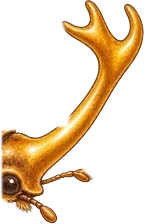
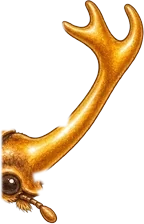
v0.14.0: 「ゆび」をなくしてタップでさわる、夜の画面（屋外は暗く、室内は照明と夜の窓）、ミアレカブトの触角

Changed region(s): [[0.1944, 0.7188, 0.6389, 0.875]]

diff --git a/index.html b/index.html
@@ -626,6 +626,7 @@ html.land #arena .ctl{grid-column:2;margin-top:0}
 #placeBg{display:none}
 html.land body.noteUI #placeBg{display:block;position:fixed;inset:0;z-index:-1;background-position:center bottom;background-size:cover;background-repeat:no-repeat;background-color:#d9c4a4}
 #placeBg i{position:absolute;inset:0;display:block}
+#nightRoom{position:absolute;inset:0;width:100%;height:100%;display:block}
 .tabArt{display:none}
 html.land body.noteUI{--note-ink:#4a3320;font-family:"Klee One","Hiragino Maru Gothic ProN","Hiragino Sans",sans-serif;background:#d9c4a4}
 html.land body.obsMode{--toolh:clamp(50px,calc(var(--H) * .085),84px);--nf:clamp(14px,calc(var(--H) * .023),22px);--sih:min(calc((var(--H) - var(--st) - var(--sb) - var(--toolh) - 42px) * .73),calc((var(--W) - 80px - var(--rtw) - var(--sl) - var(--sr)) * .6 / 1.78))}
@@ -689,6 +690,11 @@ html.land body.noteUI:not(.obsMode) .album .ph,html.land body.noteUI:not(.obsMod
 /* 絵が見えるよう、画面ごとにカードの置き場所をかえる。はばは --H ではなく #view のわりあい */
 html.land body.noteUI[data-tab=out] #view{padding-top:calc(var(--H) * .3)}
 html.land body.noteUI[data-tab=spot] #view{padding-top:calc(var(--H) * .22)}
+/* 夜：絵を暗く。カードは少し濃くして、字を読みやすく */
+html.land body.noteUI[data-slot=yoru] .spotPic,html.land body.noteUI[data-night=sky] .caseBox .caseArt{filter:brightness(.62) saturate(.85)}
+html.land body.noteUI[data-night=room] .caseBox .caseArt{filter:brightness(.9) sepia(.15) drop-shadow(0 3px 3px #3a241255)}
+html.land body.noteUI[data-night=sky]:not(.obsMode) #view{--win:#fffaebd6}
+html.land body.noteUI[data-night=sky]:not(.obsMode) #view>h2,html.land body.noteUI[data-night=sky]:not(.obsMode) #view>h3,html.land body.noteUI[data-night=sky]:not(.obsMode) #view>p:not(.win),html.land body.noteUI[data-night=sky]:not(.obsMode) #view>.row>h2{background:#fffaebd6}
 html.land body.noteUI:not(.obsMode) .win,html.land body.noteUI:not(.obsMode) .spot,html.land body.noteUI:not(.obsMode) .rival,html.land body.noteUI:not(.obsMode) .case,html.land body.noteUI:not(.obsMode) .opt .btn,html.land body.noteUI:not(.obsMode) #view>p:not(.win){-webkit-backdrop-filter:blur(2px);backdrop-filter:blur(2px)}
 html.land body.noteUI:not(.obsMode) .opt .btn .v{white-space:nowrap;margin-left:.6em;flex:none}
 html.land body.noteUI:not(.obsMode) .opt .btn{gap:.4em}
@@ -739,7 +745,7 @@ html.land.tall body.noteUI #rtabs .rt{font-size:15px}
   <div id="view"></div><!-- 中央画面（#view） -->
 </div>
 <!-- 左メニュー（#tabs）：そと・すもう・おみせ・ずかん・その他（たて画面のPCでは下にならび、おうちもここ） -->
-<div id="placeBg"><i></i></div>
+<div id="placeBg"><i></i><svg id="nightRoom" viewBox="0 0 1280 853" preserveAspectRatio="xMidYMax slice" aria-hidden="true"></svg></div>
 <div id="tabs" hidden>
   <button type="button" data-t="home"><span class="ic">🧺</span>虫かご</button>
   <button type="button" data-t="out"><span class="ic">🌳</span><img class="tabArt" src="img/ui/ic_out.webp" alt="" draggable="false">そと</button>
@@ -771,9 +777,14 @@ const SAVE_KEY = KEY_PRE + 'munakata-mushisodate-v1';
 const QS = new URLSearchParams(location.search);
 
 /* バージョンとこうしん情報：公開するたびに番号を上げる（ふだんは +0.0.1、大きなこうしんは +0.1） */
-const GAME_VER = '0.13.0';
-const BUILD = '20261106-0052';   // 公開するたびに tools/bump.sh が日時を書きこむ（version.json と同じ値）
+const GAME_VER = '0.14.0';
+const BUILD = '20261106-0148';   // 公開するたびに tools/bump.sh が日時を書きこむ（version.json と同じ値）
 const CHANGELOG = [
+  {v:'0.14.0', date:'2026-11-06', items:[
+    '「ゆび」の道具がなくなった。虫を直接タップすると、そっとさわれるよ。さわるのは、ちょっとだけね',
+    'ほんとうの時間が夜になると、画面も夜になる。外は暗くなって、へややおみせは明かりがついて、窓の外に星が見えるよ',
+    'ミアレカブトの触角が動くようになった',
+  ]},
   {v:'0.13.0', date:'2026-11-06', items:[
     '成虫がぜんぶ絵になって、動くようになった！ チョウははねをゆっくり開いてとじて、クワガタはアゴを動かして歩くよ',
     'そとの場所にそれぞれ絵がついた。着いたら、その場所のけしきが見える',
@@ -1568,7 +1579,7 @@ const BUG_IMG = {
   abura: {adult:'abura_adult_genki'},
 };
 /* 1枚絵を切り分けて関節で動かす虫（tools/art_cut.py の出力）。座標は 512px の絵のまま。虫を足すときは tools/art_cut.py の RIGS に足して、出力をここへ */
-const ART_RIG = {"kabuto_larva":{"drop":0,"hop":0,"parts":{"tail":{"b":[276,45,215,286],"pv":[295,135],"kind":"tail"},"front":{"b":[26,267,249,158],"pv":[105,295],"kind":"front"},"leg1":{"b":[94,377,48,85],"pv":[122,390],"kind":"leg","ph":0,"parent":"front"},"leg2":{"b":[153,397,45,75],"pv":[175,408],"kind":"leg","ph":2,"parent":"front"},"leg3":{"b":[201,401,40,70],"pv":[220,412],"kind":"leg","ph":4,"parent":"front"},"head":{"b":[231,315,107,110],"pv":[250,372],"kind":"head","parent":"front"},"chew":{"b":[285,387,61,50],"pv":[298,405],"kind":"chew","parent":"head"}}},"kabuto_pupa":{"drop":0,"hop":0,"parts":{"tail":{"b":[20,162,138,222],"pv":[135,270],"kind":"tail"}}},"kokuwa_adult":{"drop":0,"hop":0,"parts":{"legF3":{"b":[20,280,61,45],"pv":[68,292],"kind":"leg","ph":3},"legF1":{"b":[317,293,64,46],"pv":[328,302],"kind":"leg","ph":3},"leg3":{"b":[42,287,136,61],"pv":[160,304],"kind":"leg","ph":0},"leg2":{"b":[159,287,109,63],"pv":[250,304],"kind":"leg","ph":3},"leg1":{"b":[267,285,105,66],"pv":[285,304],"kind":"leg","ph":0},"leg0":{"b":[335,281,155,65],"pv":[352,298],"kind":"leg","ph":3},"ant":{"b":[390,262,98,40],"pv":[400,272],"kind":"ant"},"antF":{"b":[408,161,83,54],"pv":[416,210],"kind":"ant","ph":1.3},"mandU":{"b":[400,207,79,46],"pv":[412,228],"kind":"mand","sgn":-1},"mandL":{"b":[400,247,79,36],"pv":[412,264],"kind":"mand","sgn":1}}},"suzumushi_adult":{"drop":0,"hop":0,"parts":{"leg3":{"b":[232,293,96,99],"pv":[312,308],"kind":"leg","ph":0},"leg2":{"b":[335,297,61,87],"pv":[355,308],"kind":"leg","ph":3},"leg1":{"b":[380,285,76,74],"pv":[392,296],"kind":"leg","ph":0},"ant":{"b":[62,46,381,222],"pv":[428,264],"kind":"ant","amp":0.45},"antF":{"b":[160,249,331,216],"pv":[430,266],"kind":"ant","ph":1.3,"amp":0.45}}},"shoryo_adult":{"drop":0,"hop":1,"parts":{"legF":{"b":[203,297,41,47],"pv":[232,302],"kind":"leg","ph":3},"leg3":{"b":[235,285,63,74],"pv":[285,293],"kind":"leg","ph":0},"leg2":{"b":[300,273,41,88],"pv":[325,283],"kind":"leg","ph":3},"leg1":{"b":[350,257,58,102],"pv":[368,272],"kind":"leg","ph":0},"ant":{"b":[443,153,48,38],"pv":[447,186],"kind":"ant"}}},"tonosama_adult":{"drop":0,"hop":1,"parts":{"leg4":{"b":[202,267,89,96],"pv":[275,280],"kind":"leg","ph":0},"leg3":{"b":[283,277,58,89],"pv":[325,288],"kind":"leg","ph":3},"legF":{"b":[400,278,59,68],"pv":[412,285],"kind":"leg","ph":3},"leg1":{"b":[360,265,67,97],"pv":[378,277],"kind":"leg","ph":0},"ant":{"b":[428,168,63,68],"pv":[437,225],"kind":"ant"}}},"kinkabuto_adult":{"drop":0,"hop":0,"parts":{"head":{"b":[347,103,144,224],"pv":[352,265],"kind":"head","amp":0.5},"leg0":{"b":[20,353,85,55],"pv":[88,356],"kind":"leg","ph":3},"leg1":{"b":[99,353,62,49],"pv":[150,356],"kind":"leg","ph":0},"leg2":{"b":[168,329,85,79],"pv":[238,332],"kind":"leg","ph":3},"leg3":{"b":[257,325,85,76],"pv":[273,328],"kind":"leg","ph":0},"leg4":{"b":[287,320,147,87],"pv":[325,323],"kind":"leg","ph":3}}},"nokogiri_adult":{"drop":0,"hop":0,"parts":{"mandU":{"b":[342,162,139,71],"pv":[350,215],"kind":"mand","sgn":-1},"mandL":{"b":[341,219,150,78],"pv":[350,258],"kind":"mand","sgn":1},"ant":{"b":[290,176,40,45],"pv":[303,212],"kind":"ant"},"antN":{"b":[335,261,66,38],"pv":[340,272],"kind":"ant","ph":1.3},"leg0":{"b":[20,314,46,34],"pv":[55,316],"kind":"leg","ph":3},"leg1":{"b":[49,316,50,33],"pv":[87,319],"kind":"leg","ph":0},"leg2":{"b":[144,317,53,31],"pv":[186,320],"kind":"leg","ph":3},"leg3":{"b":[214,316,43,30],"pv":[221,319],"kind":"leg","ph":0},"leg4":{"b":[255,309,67,40],"pv":[271,312],"kind":"leg","ph":3},"leg5":{"b":[313,299,74,50],"pv":[325,302],"kind":"leg","ph":0}}},"hirata_adult":{"drop":0,"hop":0,"parts":{"mandU":{"b":[358,208,133,43],"pv":[365,232],"kind":"mand","sgn":-1},"mandL":{"b":[356,254,134,37],"pv":[362,268],"kind":"mand","sgn":1},"ant":{"b":[359,179,70,50],"pv":[368,218],"kind":"ant"},"antN":{"b":[352,272,58,39],"pv":[358,282],"kind":"ant","ph":1.3},"leg0":{"b":[20,293,47,33],"pv":[57,296],"kind":"leg","ph":3},"leg1":{"b":[41,294,53,39],"pv":[79,297],"kind":"leg","ph":0},"leg2":{"b":[89,294,92,32],"pv":[132,297],"kind":"leg","ph":3},"leg3":{"b":[159,294,51,39],"pv":[195,297],"kind":"leg","ph":0},"leg4":{"b":[261,301,39,25],"pv":[265,304],"kind":"leg","ph":3},"leg5":{"b":[298,307,64,25],"pv":[311,310],"kind":"leg","ph":0}}},"miyama_adult":{"drop":0,"hop":0,"parts":{"mandU":{"b":[346,183,140,63],"pv":[352,222],"kind":"mand","sgn":-1},"mandL":{"b":[346,237,145,40],"pv":[352,255],"kind":"mand","sgn":1},"ant":{"b":[345,136,74,78],"pv":[358,205],"kind":"ant"},"antN":{"b":[369,253,69,53],"pv":[378,262],"kind":"ant","ph":1.3},"leg0":{"b":[20,319,53,48],"pv":[63,322],"kind":"leg","ph":3},"leg1":{"b":[48,313,144,62],"pv":[155,316],"kind":"leg","ph":0},"leg2":{"b":[162,315,51,60],"pv":[203,318],"kind":"leg","ph":3},"leg3":{"b":[282,321,73,54],"pv":[288,324],"kind":"leg","ph":0},"leg4":{"b":[332,323,86,46],"pv":[341,326],"kind":"leg","ph":3}}},"ookuwa_adult":{"drop":0,"hop":0,"parts":{"mandU":{"b":[366,164,125,58],"pv":[375,195],"kind":"mand","sgn":-1},"mandL":{"b":[361,234,129,46],"pv":[368,255],"kind":"mand","sgn":1},"ant":{"b":[360,123,89,66],"pv":[372,178],"kind":"ant"},"antN":{"b":[355,256,95,64],"pv":[364,266],"kind":"ant","ph":1.3},"leg0":{"b":[20,315,86,71],"pv":[80,318],"kind":"leg","ph":3},"leg1":{"b":[90,320,62,53],"pv":[136,323],"kind":"leg","ph":0},"leg2":{"b":[158,297,87,92],"pv":[237,300],"kind":"leg","ph":3},"leg3":{"b":[292,327,79,60],"pv":[306,330],"kind":"leg","ph":0},"leg4":{"b":[344,327,74,47],"pv":[357,330],"kind":"leg","ph":3}}},"kamakiri_adult":{"drop":0,"hop":0,"parts":{"claw":{"b":[317,211,139,139],"pv":[362,222],"kind":"mand","sgn":1},"head":{"b":[373,190,45,48],"pv":[385,215],"kind":"head"},"ant":{"b":[392,128,92,76],"pv":[402,195],"kind":"ant","parent":"head"},"antN":{"b":[400,151,91,54],"pv":[408,195],"kind":"ant","ph":1.3,"parent":"head"},"leg0":{"b":[54,333,61,51],"pv":[107,336],"kind":"leg","ph":3},"leg1":{"b":[147,321,55,41],"pv":[190,324],"kind":"leg","ph":0},"leg2":{"b":[240,298,69,86],"pv":[278,301],"kind":"leg","ph":3},"leg3":{"b":[301,293,59,70],"pv":[306,296],"kind":"leg","ph":0}}},"monshiro_adult":{"drop":0,"hop":0,"parts":{"wing":{"b":[20,52,322,405],"pv":[320,345],"kind":"wing"},"ant":{"b":[362,206,113,122],"pv":[375,318],"kind":"ant"},"antN":{"b":[369,238,122,92],"pv":[380,318],"kind":"ant","ph":1.3},"leg0":{"b":[160,448,23,10],"pv":[170,451],"kind":"leg","ph":3},"leg1":{"b":[206,402,82,58],"pv":[246,405],"kind":"leg","ph":0},"leg2":{"b":[317,402,24,57],"pv":[327,405],"kind":"leg","ph":3},"leg3":{"b":[371,402,44,53],"pv":[376,405],"kind":"leg","ph":0}}},"ageha_adult":{"drop":0,"hop":0,"parts":{"wing":{"b":[20,36,349,418],"pv":[362,350],"kind":"wing"},"ant":{"b":[384,237,83,121],"pv":[398,348],"kind":"ant"},"antN":{"b":[390,262,101,97],"pv":[402,348],"kind":"ant","ph":1.3},"leg0":{"b":[140,448,40,24],"pv":[170,451],"kind":"leg","ph":3},"leg1":{"b":[221,431,53,43],"pv":[265,434],"kind":"leg","ph":0},"leg2":{"b":[266,425,43,44],"pv":[294,428],"kind":"leg","ph":3},"leg3":{"b":[295,425,40,50],"pv":[321,428],"kind":"leg","ph":0},"leg4":{"b":[355,425,21,42],"pv":[359,428],"kind":"leg","ph":3},"leg5":{"b":[362,425,45,50],"pv":[373,428],"kind":"leg","ph":0},"leg6":{"b":[401,425,37,44],"pv":[406,428],"kind":"leg","ph":3}}},"karasu_adult":{"drop":0,"hop":0,"parts":{"wing":{"b":[20,45,339,411],"pv":[350,350],"kind":"wing"},"ant":{"b":[377,238,89,117],"pv":[388,345],"kind":"ant"},"antN":{"b":[382,258,109,99],"pv":[392,345],"kind":"ant","ph":1.3},"leg0":{"b":[165,447,34,18],"pv":[189,450],"kind":"leg","ph":3},"leg1":{"b":[236,433,39,33],"pv":[268,436],"kind":"leg","ph":0},"leg2":{"b":[304,425,19,41],"pv":[316,428],"kind":"leg","ph":3},"leg3":{"b":[366,425,39,39],"pv":[371,428],"kind":"leg","ph":0},"leg4":{"b":[395,425,47,37],"pv":[400,428],"kind":"leg","ph":3}}},"oomurasaki_adult":{"drop":0,"hop":0,"parts":{"wing":{"b":[20,60,353,375],"pv":[335,335],"kind":"wing"},"ant":{"b":[369,205,91,133],"pv":[382,328],"kind":"ant"},"antN":{"b":[379,244,112,96],"pv":[388,328],"kind":"ant","ph":1.3},"leg0":{"b":[168,423,42,29],"pv":[199,426],"kind":"leg","ph":3},"leg1":{"b":[246,409,27,43],"pv":[262,412],"kind":"leg","ph":0},"leg2":{"b":[306,409,20,25],"pv":[308,412],"kind":"leg","ph":3},"leg3":{"b":[335,409,39,36],"pv":[342,412],"kind":"leg","ph":0},"leg4":{"b":[370,409,25,16],"pv":[375,412],"kind":"leg","ph":3}}}};
+const ART_RIG = {"kabuto_larva":{"drop":0,"hop":0,"parts":{"tail":{"b":[276,45,215,286],"pv":[295,135],"kind":"tail"},"front":{"b":[26,267,249,158],"pv":[105,295],"kind":"front"},"leg1":{"b":[94,377,48,85],"pv":[122,390],"kind":"leg","ph":0,"parent":"front"},"leg2":{"b":[153,397,45,75],"pv":[175,408],"kind":"leg","ph":2,"parent":"front"},"leg3":{"b":[201,401,40,70],"pv":[220,412],"kind":"leg","ph":4,"parent":"front"},"head":{"b":[231,315,107,110],"pv":[250,372],"kind":"head","parent":"front"},"chew":{"b":[285,387,61,50],"pv":[298,405],"kind":"chew","parent":"head"}}},"kabuto_pupa":{"drop":0,"hop":0,"parts":{"tail":{"b":[20,162,138,222],"pv":[135,270],"kind":"tail"}}},"kokuwa_adult":{"drop":0,"hop":0,"parts":{"legF3":{"b":[20,280,61,45],"pv":[68,292],"kind":"leg","ph":3},"legF1":{"b":[317,293,64,46],"pv":[328,302],"kind":"leg","ph":3},"leg3":{"b":[42,287,136,61],"pv":[160,304],"kind":"leg","ph":0},"leg2":{"b":[159,287,109,63],"pv":[250,304],"kind":"leg","ph":3},"leg1":{"b":[267,285,105,66],"pv":[285,304],"kind":"leg","ph":0},"leg0":{"b":[335,281,155,65],"pv":[352,298],"kind":"leg","ph":3},"ant":{"b":[390,262,98,40],"pv":[400,272],"kind":"ant"},"antF":{"b":[408,161,83,54],"pv":[416,210],"kind":"ant","ph":1.3},"mandU":{"b":[400,207,79,46],"pv":[412,228],"kind":"mand","sgn":-1},"mandL":{"b":[400,247,79,36],"pv":[412,264],"kind":"mand","sgn":1}}},"suzumushi_adult":{"drop":0,"hop":0,"parts":{"leg3":{"b":[232,293,96,99],"pv":[312,308],"kind":"leg","ph":0},"leg2":{"b":[335,297,61,87],"pv":[355,308],"kind":"leg","ph":3},"leg1":{"b":[380,285,76,74],"pv":[392,296],"kind":"leg","ph":0},"ant":{"b":[62,46,381,222],"pv":[428,264],"kind":"ant","amp":0.45},"antF":{"b":[160,249,331,216],"pv":[430,266],"kind":"ant","ph":1.3,"amp":0.45}}},"shoryo_adult":{"drop":0,"hop":1,"parts":{"legF":{"b":[203,297,41,47],"pv":[232,302],"kind":"leg","ph":3},"leg3":{"b":[235,285,63,74],"pv":[285,293],"kind":"leg","ph":0},"leg2":{"b":[300,273,41,88],"pv":[325,283],"kind":"leg","ph":3},"leg1":{"b":[350,257,58,102],"pv":[368,272],"kind":"leg","ph":0},"ant":{"b":[443,153,48,38],"pv":[447,186],"kind":"ant"}}},"tonosama_adult":{"drop":0,"hop":1,"parts":{"leg4":{"b":[202,267,89,96],"pv":[275,280],"kind":"leg","ph":0},"leg3":{"b":[283,277,58,89],"pv":[325,288],"kind":"leg","ph":3},"legF":{"b":[400,278,59,68],"pv":[412,285],"kind":"leg","ph":3},"leg1":{"b":[360,265,67,97],"pv":[378,277],"kind":"leg","ph":0},"ant":{"b":[428,168,63,68],"pv":[437,225],"kind":"ant"}}},"kinkabuto_adult":{"drop":0,"hop":0,"parts":{"head":{"b":[347,103,144,224],"pv":[352,265],"kind":"head","amp":0.5},"ant":{"b":[378,269,67,31],"pv":[385,288],"kind":"ant","parent":"head"},"leg0":{"b":[20,353,85,55],"pv":[88,356],"kind":"leg","ph":3},"leg1":{"b":[99,353,62,49],"pv":[150,356],"kind":"leg","ph":0},"leg2":{"b":[168,329,85,79],"pv":[238,332],"kind":"leg","ph":3},"leg3":{"b":[257,325,85,76],"pv":[273,328],"kind":"leg","ph":0},"leg4":{"b":[287,320,147,87],"pv":[325,323],"kind":"leg","ph":3}}},"nokogiri_adult":{"drop":0,"hop":0,"parts":{"mandU":{"b":[342,162,139,71],"pv":[350,215],"kind":"mand","sgn":-1},"mandL":{"b":[341,219,150,78],"pv":[350,258],"kind":"mand","sgn":1},"ant":{"b":[290,176,40,45],"pv":[303,212],"kind":"ant"},"antN":{"b":[335,261,66,38],"pv":[340,272],"kind":"ant","ph":1.3},"leg0":{"b":[20,314,46,34],"pv":[55,316],"kind":"leg","ph":3},"leg1":{"b":[49,316,50,33],"pv":[87,319],"kind":"leg","ph":0},"leg2":{"b":[144,317,53,31],"pv":[186,320],"kind":"leg","ph":3},"leg3":{"b":[214,316,43,30],"pv":[221,319],"kind":"leg","ph":0},"leg4":{"b":[255,309,67,40],"pv":[271,312],"kind":"leg","ph":3},"leg5":{"b":[313,299,74,50],"pv":[325,302],"kind":"leg","ph":0}}},"hirata_adult":{"drop":0,"hop":0,"parts":{"mandU":{"b":[358,208,133,43],"pv":[365,232],"kind":"mand","sgn":-1},"mandL":{"b":[356,254,134,37],"pv":[362,268],"kind":"mand","sgn":1},"ant":{"b":[359,179,70,50],"pv":[368,218],"kind":"ant"},"antN":{"b":[352,272,58,39],"pv":[358,282],"kind":"ant","ph":1.3},"leg0":{"b":[20,293,47,33],"pv":[57,296],"kind":"leg","ph":3},"leg1":{"b":[41,294,53,39],"pv":[79,297],"kind":"leg","ph":0},"leg2":{"b":[89,294,92,32],"pv":[132,297],"kind":"leg","ph":3},"leg3":{"b":[159,294,51,39],"pv":[195,297],"kind":"leg","ph":0},"leg4":{"b":[261,301,39,25],"pv":[265,304],"kind":"leg","ph":3},"leg5":{"b":[298,307,64,25],"pv":[311,310],"kind":"leg","ph":0}}},"miyama_adult":{"drop":0,"hop":0,"parts":{"mandU":{"b":[346,183,140,63],"pv":[352,222],"kind":"mand","sgn":-1},"mandL":{"b":[346,237,145,40],"pv":[352,255],"kind":"mand","sgn":1},"ant":{"b":[345,136,74,78],"pv":[358,205],"kind":"ant"},"antN":{"b":[369,253,69,53],"pv":[378,262],"kind":"ant","ph":1.3},"leg0":{"b":[20,319,53,48],"pv":[63,322],"kind":"leg","ph":3},"leg1":{"b":[48,313,144,62],"pv":[155,316],"kind":"leg","ph":0},"leg2":{"b":[162,315,51,60],"pv":[203,318],"kind":"leg","ph":3},"leg3":{"b":[282,321,73,54],"pv":[288,324],"kind":"leg","ph":0},"leg4":{"b":[332,323,86,46],"pv":[341,326],"kind":"leg","ph":3}}},"ookuwa_adult":{"drop":0,"hop":0,"parts":{"mandU":{"b":[366,164,125,58],"pv":[375,195],"kind":"mand","sgn":-1},"mandL":{"b":[361,234,129,46],"pv":[368,255],"kind":"mand","sgn":1},"ant":{"b":[360,123,89,66],"pv":[372,178],"kind":"ant"},"antN":{"b":[355,256,95,64],"pv":[364,266],"kind":"ant","ph":1.3},"leg0":{"b":[20,315,86,71],"pv":[80,318],"kind":"leg","ph":3},"leg1":{"b":[90,320,62,53],"pv":[136,323],"kind":"leg","ph":0},"leg2":{"b":[158,297,87,92],"pv":[237,300],"kind":"leg","ph":3},"leg3":{"b":[292,327,79,60],"pv":[306,330],"kind":"leg","ph":0},"leg4":{"b":[344,327,74,47],"pv":[357,330],"kind":"leg","ph":3}}},"kamakiri_adult":{"drop":0,"hop":0,"parts":{"claw":{"b":[317,211,139,139],"pv":[362,222],"kind":"mand","sgn":1},"head":{"b":[373,190,45,48],"pv":[385,215],"kind":"head"},"ant":{"b":[392,128,92,76],"pv":[402,195],"kind":"ant","parent":"head"},"antN":{"b":[400,151,91,54],"pv":[408,195],"kind":"ant","ph":1.3,"parent":"head"},"leg0":{"b":[54,333,61,51],"pv":[107,336],"kind":"leg","ph":3},"leg1":{"b":[147,321,55,41],"pv":[190,324],"kind":"leg","ph":0},"leg2":{"b":[240,298,69,86],"pv":[278,301],"kind":"leg","ph":3},"leg3":{"b":[301,293,59,70],"pv":[306,296],"kind":"leg","ph":0}}},"monshiro_adult":{"drop":0,"hop":0,"parts":{"wing":{"b":[20,52,322,405],"pv":[320,345],"kind":"wing"},"ant":{"b":[362,206,113,122],"pv":[375,318],"kind":"ant"},"antN":{"b":[369,238,122,92],"pv":[380,318],"kind":"ant","ph":1.3},"leg0":{"b":[160,448,23,10],"pv":[170,451],"kind":"leg","ph":3},"leg1":{"b":[206,402,82,58],"pv":[246,405],"kind":"leg","ph":0},"leg2":{"b":[317,402,24,57],"pv":[327,405],"kind":"leg","ph":3},"leg3":{"b":[371,402,44,53],"pv":[376,405],"kind":"leg","ph":0}}},"ageha_adult":{"drop":0,"hop":0,"parts":{"wing":{"b":[20,36,349,418],"pv":[362,350],"kind":"wing"},"ant":{"b":[384,237,83,121],"pv":[398,348],"kind":"ant"},"antN":{"b":[390,262,101,97],"pv":[402,348],"kind":"ant","ph":1.3},"leg0":{"b":[140,448,40,24],"pv":[170,451],"kind":"leg","ph":3},"leg1":{"b":[221,431,53,43],"pv":[265,434],"kind":"leg","ph":0},"leg2":{"b":[266,425,43,44],"pv":[294,428],"kind":"leg","ph":3},"leg3":{"b":[295,425,40,50],"pv":[321,428],"kind":"leg","ph":0},"leg4":{"b":[355,425,21,42],"pv":[359,428],"kind":"leg","ph":3},"leg5":{"b":[362,425,45,50],"pv":[373,428],"kind":"leg","ph":0},"leg6":{"b":[401,425,37,44],"pv":[406,428],"kind":"leg","ph":3}}},"karasu_adult":{"drop":0,"hop":0,"parts":{"wing":{"b":[20,45,339,411],"pv":[350,350],"kind":"wing"},"ant":{"b":[377,238,89,117],"pv":[388,345],"kind":"ant"},"antN":{"b":[382,258,109,99],"pv":[392,345],"kind":"ant","ph":1.3},"leg0":{"b":[165,447,34,18],"pv":[189,450],"kind":"leg","ph":3},"leg1":{"b":[236,433,39,33],"pv":[268,436],"kind":"leg","ph":0},"leg2":{"b":[304,425,19,41],"pv":[316,428],"kind":"leg","ph":3},"leg3":{"b":[366,425,39,39],"pv":[371,428],"kind":"leg","ph":0},"leg4":{"b":[395,425,47,37],"pv":[400,428],"kind":"leg","ph":3}}},"oomurasaki_adult":{"drop":0,"hop":0,"parts":{"wing":{"b":[20,60,353,375],"pv":[335,335],"kind":"wing"},"ant":{"b":[369,205,91,133],"pv":[382,328],"kind":"ant"},"antN":{"b":[379,244,112,96],"pv":[388,328],"kind":"ant","ph":1.3},"leg0":{"b":[168,423,42,29],"pv":[199,426],"kind":"leg","ph":3},"leg1":{"b":[246,409,27,43],"pv":[262,412],"kind":"leg","ph":0},"leg2":{"b":[306,409,20,25],"pv":[308,412],"kind":"leg","ph":3},"leg3":{"b":[335,409,39,36],"pv":[342,412],"kind":"leg","ph":0},"leg4":{"b":[370,409,25,16],"pv":[375,412],"kind":"leg","ph":3}}}};
 function artSVG(key){
   const R = ART_RIG[key], dir = `img/bugs/parts/${key}/`, kids = {};
   Object.entries(R.parts).forEach(([k, P])=> (kids[P.parent || ''] = kids[P.parent || ''] || []).push(k));
@@ -1783,6 +1794,33 @@ const SKY = {asa:['#9ad0f0','#e8f4c0'], hiru:['#5aa6d8','#a9d7ea'], yu:['#f0a060
 const CASE_BG = {heya:'bg_heya', genkan:'bg_genkan', beranda:'bg_beranda'};
 // 土の絵：幅 130、h は高さ、top は絵の上から表面までの長さ（表面が soilTop に来るようにずらす）、base は絵の下にしく色
 const SOIL_ART = {futsu:{img:'soil_futsu', h:41.5, top:2.37, base:'#6b4426', room:'#3a2414', crumb:'#8a5f3a'}, mat_fuyo:{img:'soil_fuyo', h:40, top:3.55, base:'#3b2418', room:'#1f130c', crumb:'#7a5236'}, mat_kuro:{img:'soil_kuro', h:42, top:2.54, base:'#1c1614', room:'#0d0a08', crumb:'#3a302a'}, mat_suna:{img:'soil_suna', h:37.1, top:1.69, base:'#d9bd8c', room:'#a98c5e', crumb:'#efdcb4'}};
+/* 夜の室内：絵（1280x853）のガラス面だけを夜空にして、わくや桟は照明で明るいままにする。すみは少し暗く。座標は絵のまま
+   polys：ガラス1枚ずつ／glow：ガラスにうつる店内の明かり／patch：昼の日ざしを、その場所の色でかくす [点, 色]／c：照明の位置／noStar：星を出さない */
+const GENKAN_PANES = [[73,109],[121,159],[171,206],[218,256],[268,309],[321,359],[371,411],[423,460]].flatMap(([a,b])=> [[52,300],[348,505]].map(([t,u])=> `${a},${t} ${b},${t} ${b},${u} ${a},${u}`));
+const ROOM_NIGHT = {
+  place_heya:{polys:['250,0 340,0 340,60 232,60','365,0 462,0 478,60 365,60','225,82 340,82 340,178 213,178 205,145','365,82 485,82 500,115 503,150 495,178 365,178','0,0 33,0 33,178 0,178','52,0 125,0 140,100 130,178 52,178'],
+    glow:[[290,120,45,40],[430,130,45,40]], patch:[['0,190 230,195 130,330 0,340','#f4d0b0']], c:[640,-40]},
+  place_genkan:{polys:GENKAN_PANES, noStar:1, patch:[['0,0 72,0 72,540 0,540','#e8b078'],['72,0 240,0 240,50 72,50','#dea468']], c:[820,-40]},
+  scr_shop:{polys:['962,208 1075,152 1075,212 962,255','960,272 1075,240 1075,555 960,508','1102,145 1280,60 1280,140 1102,205','1108,250 1195,228 1195,680 1108,635','1215,222 1280,205 1280,715 1215,690'], noStar:1, glow:[[1150,330,70,130],[1000,370,50,110]], patch:[['800,600 1000,590 1170,716 830,716','#ead3ae']], c:[640,70], r:1120, edge:.34},
+  scr_dex:{polys:['50,0 117,0 117,148 50,148','135,0 188,0 202,60 225,120 228,148 135,148','0,0 32,0 32,148 0,148'], glow:[[85,85,22,35],[170,85,22,35]], patch:[['0,170 90,170 60,320 0,320','#f4d0b0']], c:[660,-60]},
+  scr_opt:{polys:['372,0 457,0 457,53 354,53','478,0 575,0 590,53 478,53','350,73 457,73 457,163 345,163 336,105','478,73 596,73 610,105 603,163 478,163'], glow:[[405,120,35,30],[540,120,35,30]], patch:[['0,0 240,0 130,80 0,80','#f4d0b0']], c:[640,-40]},
+};
+function roomNightSVG(R){
+  const [cx, cy] = R.c, r = R.r || 820, edge = R.edge || .58;
+  const sky = R.polys.map(pts=>`<polygon points="${pts}" fill="url(#nrSky)" opacity=".82"/>`).join('');
+  const box = pts=>{ const q = pts.split(' ').map(a=>a.split(',').map(Number)), xs = q.map(a=>a[0]), ys = q.map(a=>a[1]), x = Math.min(...xs), y = Math.min(...ys); return [x, y, Math.max(...xs) - x, Math.max(...ys) - y]; };
+  const stars = R.noStar ? '' : R.polys.flatMap(pts=>{ const [x,y,w,h] = box(pts); return [[.5,.2],[.3,.45],[.65,.7]].map(([a,b])=>`<circle cx="${(x+w*a).toFixed(0)}" cy="${(y+h*b).toFixed(0)}" r="1.8" fill="#fff" opacity=".7"/>`); }).join('');
+  const glow = (R.glow||[]).map(([x,y,rx,ry])=>`<ellipse cx="${x}" cy="${y}" rx="${rx}" ry="${ry}" fill="#ffd9a0" opacity=".13"/>`).join('');
+  const patch = (R.patch||[]).map(([pts,col])=>`<polygon points="${pts}" fill="${col}" opacity=".8"/>`).join('');
+  return `<defs><radialGradient id="nrLight" gradientUnits="userSpaceOnUse" cx="${cx}" cy="${cy}" r="${r}"><stop offset="0" stop-color="#ffd48a" stop-opacity=".2"/><stop offset=".45" stop-color="#d98a3e" stop-opacity=".1"/><stop offset="1" stop-color="#2a140e" stop-opacity="${edge}"/></radialGradient><linearGradient id="nrSky" x1="0" y1="0" x2="0" y2="1"><stop offset="0" stop-color="#0c1436"/><stop offset="1" stop-color="#22305e"/></linearGradient><filter id="nrSoft" x="-5%" y="-5%" width="110%" height="110%"><feGaussianBlur stdDeviation="1.6"/></filter><filter id="nrGlow" x="-50%" y="-50%" width="200%" height="200%"><feGaussianBlur stdDeviation="16"/></filter></defs><g filter="url(#nrGlow)">${patch}</g><rect width="1280" height="853" fill="url(#nrLight)"/><g filter="url(#nrSoft)">${sky}</g>${stars}<g filter="url(#nrGlow)">${glow}</g>`;
+}
+function paintPlace(img, slot){   // 背景の絵と、朝・夕方・夜の色。夜の室内は照明がついた見た目にする
+  const pb = $('placeBg'), R = slot === 'yoru' && ROOM_NIGHT[img], ti = R ? null : CASE_TINT[slot];
+  pb.style.backgroundImage = `url(img/ui/${img}.webp)`;
+  pb.firstElementChild.style.cssText = ti ? `background:${ti[0]};opacity:${ti === CASE_TINT.yoru ? .72 : (ti[1]*.8).toFixed(2)}` : '';
+  $('nightRoom').innerHTML = R ? roomNightSVG(R) : '';
+  document.body.dataset.night = slot !== 'yoru' ? '' : R ? 'room' : 'sky';
+}
 const CASE_TINT = {asa:['#ffd9a0',.16], yu:['#e8742c',.34], yoru:['#0a1434',.62]};   // 絵は「昼」の1枚。朝・夕方・夜は色をかさねる
 /* 土の中の部屋：placeBug が under:true を返すと、どの虫でもこれで土の中にいるように見せる。
    虫の大きさに合わせて穴をほり、虫は穴の中だけに見える（はみ出た分は土にかくれる）。
@@ -1866,7 +1904,7 @@ function sceneSVG(c, slot, o={}){
       `<g class="leaf" data-hide="1"><image href="img/case/hide_kuchiki.webp" x="8" y="${soilTop-16}" width="40" height="18" preserveAspectRatio="xMidYMax meet"/></g>`;
   const mess = (c.soilAge||0) > 72 && st !== 'pupa' ? [[12,1],[30,3],[47,1.5],[66,2.5],[82,1],[58,4],[22,5]].map(([x,dy])=>`<ellipse cx="${x}" cy="${soilTop + dy}" rx="2.6" ry="1.3" fill="#2a1a0a" opacity=".85"/>`).join('') + `<path d="M36 ${soilTop-1} q3 -3 6 0 M72 ${soilTop-1} q3 -3 6 0" stroke="#8a7a40" stroke-width="1.2" fill="none"/>` : '';
   ensureZ(c);
-  const A = SOIL_ART[c.mat] || SOIL_ART.futsu, bgArt = CASE_BG[c.place] || CASE_BG.heya, tint = CASE_TINT[slot];
+  const A = SOIL_ART[c.mat] || SOIL_ART.futsu, bgArt = CASE_BG[c.place] || CASE_BG.heya, tint = slot === 'yoru' && c.place !== 'beranda' ? ['#2a140e', .28] : CASE_TINT[slot];
   const room = p.under ? soilRoom(p, soilTop, A) : null;
   const soilImg = `<image href="img/case/${A.img}.webp" x="-15" y="${soilTop - A.top}" width="130" height="${A.h}" preserveAspectRatio="none"/>`;
   const soil = `<rect x="-15" y="${soilTop + 2}" width="130" height="${98 - soilTop}" fill="${A.base}"/>${soilImg}<g mask="url(#soilMask)"><g id="wetLayer">${c.wetZ.map((v,z)=>`<rect class="wz" x="${z ? z*20 : -15}" y="${soilTop - 4}" width="${z === 0 || z === 4 ? 35 : 20}" height="${104 - soilTop}" shape-rendering="crispEdges" fill="#1a0e04" opacity="${(v/100*.4).toFixed(2)}"/>`).join('')}</g></g>
@@ -1924,6 +1962,7 @@ async function yakusoku(key, text){ if(S.yk[key]) return; S.yk[key] = 1; await s
 let tab = 'home', openCase = null;
 const view = $('view');
 function refresh(){ tickAll(); handleGone(); hud(); render(); }
+setInterval(()=>{ if(S && !QS.has('mihon') && !document.querySelector('.toolObj.drag') && document.body.dataset.slot && document.body.dataset.slot !== slotOf()) refresh(); }, 60000);   // 朝・昼・夕方・夜がかわったら、絵の色もかえる
 const hudHtml = ()=>{ const slot = slotOf(); return `<span class="slot">${SLOT_ICON[slot]} ${SLOT_NAMES[slot]}</span><span>${dateStr()} ${hhmm()}</span><span class="money" title="どんぐり">🌰 ${dg(S.money)}</span>`; };
 function hud(){
   if(!S){ $('hud').hidden = true; return; }
@@ -1958,12 +1997,12 @@ document.querySelectorAll('#tabs button').forEach(b=> b.onclick = ()=> setTab(b.
 function render(){
   document.body.classList.toggle('obsMode', !!S && openCase !== null); document.body.classList.toggle('title', !S); document.body.classList.toggle('noteUI', !!S);
   const atSpot = !!S && openCase === null && tab === 'out' && outState && outState.spot;
-  document.body.dataset.tab = openCase !== null ? 'case' : atSpot ? 'spot' : tab;
+  document.body.dataset.tab = openCase !== null ? 'case' : atSpot ? 'spot' : tab; document.body.dataset.slot = slotOf();
   document.querySelectorAll('body > #drawer').forEach(e=>e.remove()); $('rtCase').hidden = true;   // ケースのこと は、ケースの画面のときだけ
   if(sidePanel === 'case') sidePanel = null; setSide(sidePanel); $('rtabs').hidden = !S;
   if(!S){ renderTitle(); return; }
   if(openCase !== null){ renderObs(); return; }
-  { const pb = $('placeBg'), ti = (tab === 'out' || tab === 'sumo') ? CASE_TINT[slotOf()] : null; pb.style.backgroundImage = `url(img/ui/${atSpot ? 'spot_' + outState.spot.key : tab === 'home' ? 'place_heya' : 'scr_' + tab}.webp)`; pb.firstElementChild.style.cssText = ti ? `background:${ti[0]};opacity:${(ti[1]*.8).toFixed(2)}` : ''; }
+  paintPlace(atSpot ? 'spot_' + outState.spot.key : tab === 'home' ? 'place_heya' : 'scr_' + tab, slotOf());
   ({home:renderHome, out:renderOut, sumo:renderSumo, shop:renderShop, dex:renderDex, opt:renderOpt})[tab]();
 }
 
@@ -2043,7 +2082,7 @@ const PLACE_IC = {genkan:'🚪', heya:'🛏', beranda:'🌿'};
 const PLACES = {genkan:{name:'げんかん', desc:'すずしくて静か。かいふくがよくなり、のんびりした性格になりやすい'}, heya:{name:'へや', desc:'いつもそばにいる。人なつっこい性格になりやすい'}, beranda:{name:'ベランダの日かげ', desc:'外の空気。まもりが強くなる。ただし、かわきやすい'}};
 const toolImg = k=> `<img class="tim" src="img/tools/${k}.webp" alt="" draggable="false">`;
 const TOOLS = {yubi:{name:'ゆび', ic:toolImg('yubi')}, megane:{name:'虫めがね', ic:toolImg('megane')}, fukin:{name:'ふきん', ic:toolImg('fukin')}, kiri:{name:'きりふき', ic:toolImg('kiri')}, esa:{name:'エサ', ic:toolImg('esa')}, kazari:{name:'かざり', ic:toolImg('kazari')}, big:{name:'大そうじ', ic:toolImg('houki')}, furu:{name:'ふる', ic:toolImg('furu')}};
-let tool = 'yubi', obsSession = null, decoSel = null, lensLook = ()=>{};   // obsSession：いまのぞいている間の、さわった回数など
+let tool = 'yubi', /* 'yubi'：道具を持っていない。ケースを直接タップしてさわる */ obsSession = null, decoSel = null, lensLook = ()=>{};   // obsSession：いまのぞいている間の、さわった回数など
 function indLine(c){ const f = fighterOf(c); return statLine(f); }
 // 性格ごとの、さわったとき・ふったときの反応
 const REACT = {
@@ -2064,25 +2103,25 @@ async function renderObs(){
   const ownDeco = Object.keys(ITEMS).filter(k=>ITEMS[k].cat && (S.items[k]||0) > 0);
   const bigGuide = st.k === 'pupa' ? 'さなぎの間は、大そうじはできない。' : (!big || big.step === 1) ? ((c.soilAge||0) > 72 || big ? '' : 'まだ大そうじはいらない（3日に1回くらい）。') + '🤏をつかんで虫の上で止めると、そっとつまめる。右上のひなんケースへ運ぼう。すばやくぶつけると虫がいやがる。' : big.step === 2 ? `🧹をつかんで、土の上を左右に動かして入れかえよう（あと${3 - big.pass}回）` : '🤏をひなんケースの上で止めて虫をつまみ、ケースの中へもどそう。';
   const guides = {big:bigGuide, kazari:ownDeco.length ? (decoSel ? (ITEMS[decoSel].cat === 'mat' ? 'マットは、えらぶとすぐにしきかえる。' : 'かざりをつかんで、置きたい場所ではなす。置いたものは、直接つまんで動かせる。左下の「しまう」に入れるともどる。') : '下から、置きたいかざりをえらぼう。') : 'かざりは、「おみせ」で買えるよ。',
-    yubi:'手をつかんで、葉や木にのせるとのぞける。虫にのせるとそっとさわる。置いたエサやかざりは、直接つまんで動かせる。', fukin:dirtN || oldN ? `スポンジをつかんで、よごれの上でこすろう（のこり${dirtN + oldN}）` : 'ガラスはきれい。', kiri:'きりふきをつかんで、かけたい場所で指を止めると水が出る。ケースぜんたいに少しずつ。左上の5本の棒が、場所ごとのしめりけ。', esa:st.k === 'pupa' ? 'さなぎは、なにも食べない。' : `エサをつかんで、置きたい場所ではなす（${esc(food.name)}${food.price ? ` ×${S.items[foodKey]||0}` : ''}）`, furu:'ケースをつかんで、左右に動かすとゆれる。何回もゆらすと、虫がおどろくよ。', megane:'虫めがねをつかんで、見たいところに動かすと、大きく見える。虫の上で、じっと見てみよう。'}, guide = guides[tool];
+    yubi:'', fukin:dirtN || oldN ? `スポンジをつかんで、よごれの上でこすろう（のこり${dirtN + oldN}）` : 'ガラスはきれい。', kiri:'きりふきをつかんで、かけたい場所で指を止めると水が出る。ケースぜんたいに少しずつ。左上の5本の棒が、場所ごとのしめりけ。', esa:st.k === 'pupa' ? 'さなぎは、なにも食べない。' : `エサをつかんで、置きたい場所ではなす（${esc(food.name)}${food.price ? ` ×${S.items[foodKey]||0}` : ''}）`, furu:'ケースをつかんで、左右に動かすとゆれる。何回もゆらすと、虫がおどろくよ。', megane:'虫めがねをつかんで、見たいところに動かすと、大きく見える。虫の上で、じっと見てみよう。'}, guide = guides[tool];
   const showGuide = obsSession.guide; obsSession.guide = false;   // 道具をえらんだすぐあとは、文の欄に道具のつかいかたを出す
   const esaGuide = st.k === 'pupa' ? '' : `エサをつかんで、置きたい場所ではなす`;
   const bornTag = `<span class="tag born">${esc((BORN[c.born]||BORN.any).name)}</span>${c.bornSlot === 'yoru' ? ' <span class="tag">夜型</span>' : ''}`;
   const BX = boxOf(c), tags = `<span class="tag">${BX.ic} ${esc(BX.name)}</span><span class="tag">${PLACE_IC[c.place]} ${esc(PLACES[c.place].name)}</span>${c.rare ? '<span class="tag" style="background:#7a5a20">めずらしい色</span>' : ''}`;
   const msgHtml = `${esc(sc.txt)}${persTxt ? `<br>${esc(persTxt)}` : ''}${c.trouble ? `<br><b class="yk">【${esc(TROUBLE[c.trouble].name)}】</b>${esc(TROUBLE[c.trouble].txt)}` : ''}${(c.soak||0) > 30 ? '<br><b class="yk">【びちゃびちゃ】</b>水をかけすぎて、土に水たまりができている。かわくまで、きりふきはやめよう。' : ''}${c.pending ? '<br><b class="yk">…なんだか、ようすがかわりそう！</b>' : fc ? `<br><b class="yk">【予告】</b>${esc(fc)}` : ''}`;
   // 左：ケース（＋メッセージ）／右：見出し・道具・ステータス・引き出し。横画面では1画面におさまる。たて画面（PCのせまい窓など）では上から順にならぶ
-  { const pb = $('placeBg'), ti = CASE_TINT[slot]; pb.style.backgroundImage = `url(img/ui/place_${c.place}.webp)`; pb.firstElementChild.style.cssText = ti ? `background:${ti[0]};opacity:${(ti[1]*.8).toFixed(2)}` : ''; }
+  paintPlace('place_' + c.place, slot);
   view.innerHTML = `<div class="obsGrid" id="obs">
     <div class="obsL">
       <div class="caseBox" style="${caseBoxCSS(c)}"><img class="caseArt" src="img/ui/case_${(S.boxes||[])[boxIdx(c)] || 'futsu'}.webp" alt="" draggable="false"><div class="scene tool-${tool}" id="scene" style="${caseSceneCSS(c)}">${sc.svg}<div class="toolObj norb" id="toolObj" hidden></div><div class="binZone norb" id="binZone" hidden>しまう</div>${tool === 'big' && st.k !== 'pupa' ? `<div class="refuge norb ${big && big.step >= 1 ? 'on' : ''}" id="refuge"><small>ひなんケース</small><div class="rb" id="refugeBug">${big && big.step >= 2 ? svgBug(c.bug, st.k, {instar:instarOf(c), scale:.9}) : ''}</div></div>` : ''}<div class="mini norb" id="mini" hidden></div></div></div>
       ${tool === 'kazari' ? `<div class="tools decoPick norb" id="decoPick"><button type="button" class="tbtn back" data-tool="yubi"><span class="ic">↩</span>道具へ</button>${ownDeco.map(k=>`<button type="button" class="pk ${decoSel===k?'on':''}" data-deco="${k}"><svg viewBox="0 0 100 100">${decoSVG(k)}</svg>${esc(ITEMS[k].name)}<small>×${S.items[k]}</small></button>`).join('')}</div>`
-        : `<div class="tools norb" id="toolTray">${Object.keys(TOOLS).map(k=>`<button type="button" class="tbtn ${tool===k?'on':''}" data-tool="${k}" ${k==='esa' && st.k==='pupa' ? 'disabled' : ''}><span class="ic">${TOOLS[k].ic}</span>${TOOLS[k].name}</button>`).join('')}</div>`}
+        : `<div class="tools norb" id="toolTray">${Object.keys(TOOLS).filter(k=> k !== 'yubi').map(k=>`<button type="button" class="tbtn ${tool===k?'on':''}" data-tool="${k}" ${k==='esa' && st.k==='pupa' ? 'disabled' : ''}><span class="ic">${TOOLS[k].ic}</span>${TOOLS[k].name}</button>`).join('')}</div>`}
     </div>
     <div class="obsR">
       <div class="obsHead"><h2>${title}</h2><div class="headTags">${bornTag}</div><button type="button" class="btn sub backBtn" id="btnBack">↩ もどる</button></div>
       <div class="obsTxt win" id="obsTxt">${showGuide && guide ? esc(guide) : msgHtml}</div>
       <div class="meters">${st.k !== 'pupa' ? m('おなか', c.hunger) : ''}${m('しめりけ', c.wet, `<b class="band" style="left:${band[0]}%;width:${band[1]-band[0]}%"></b>`)}${m('きれいさ', c.clean)}${m('元気', g)}</div>
-      <p class="small info">${SLOT_NAMES[slot]}のようす。${c.pending || st.k === 'adult' ? '' : `このすがたで、あと${daysLeft(c)}日くらい。`}${st.k === 'adult' ? `<br>${esc(indLine(c))}<br>わざ：${c.moves.map(k=>esc(MOVES[k].name)).join('・')}　${c.size}mm ${esc(c.sex||'')}` : ''}</p>
+      <p class="small info">${tool === 'yubi' && st.k !== 'pupa' ? '虫をタップすると、そっとさわれる。' : ''}${SLOT_NAMES[slot]}のようす。${c.pending || st.k === 'adult' ? '' : `このすがたで、あと${daysLeft(c)}日くらい。`}${st.k === 'adult' ? `<br>${esc(indLine(c))}<br>わざ：${c.moves.map(k=>esc(MOVES[k].name)).join('・')}　${c.size}mm ${esc(c.sex||'')}` : ''}</p>
       <div class="drawer" id="drawer" data-p="case"><div class="dHead"><b>ケースのこと</b></div>
         <div class="row">${tags}</div>
         <div class="acts">
@@ -2097,7 +2136,7 @@ async function renderObs(){
   document.body.appendChild(view.querySelector('#drawer'));
   $('rtCase').hidden = false; setSide(sidePanel === 'case' || sidePanel === 'items' ? sidePanel : null);
   $('btnBack').onclick = ()=>{ openCase = null; obsSession = null; render(); };   // 大そうじのとちゅうでも、もどれば虫はケースにいる（big は obsSession ごと消える）
-  view.querySelectorAll('[data-tool]').forEach(bt=> bt.onclick = async ()=>{ if(obsSession.big && bt.dataset.tool !== 'big'){ obsSession.big = null; await say('大そうじをとちゅうでやめた。虫はケースにもどした。'); } tool = bt.dataset.tool; obsSession.guide = true; renderObs(); });
+  view.querySelectorAll('[data-tool]').forEach(bt=> bt.onclick = async ()=>{ if(obsSession.big && bt.dataset.tool !== 'big'){ obsSession.big = null; await say('大そうじをとちゅうでやめた。虫はケースにもどした。'); } const k = bt.dataset.tool; tool = tool === k && k !== 'yubi' ? 'yubi' : k; obsSession.guide = tool !== 'yubi'; renderObs(); });
   view.querySelectorAll('[data-deco]').forEach(bt=> bt.onclick = async ()=>{ const k = bt.dataset.deco;
     if(ITEMS[k].cat === 'mat'){ if(c.mat === k){ await say('もう、このマットをしいている。'); return; } if(c.mat) S.items[c.mat] = (S.items[c.mat]||0) + 1; S.items[k]--; c.mat = k; c.log.over++; save(); await say(`${ITEMS[k].name}をしきかえた。\n${c.mat === 'mat_fuyo' ? '幼虫がもぐっていった。腐葉土は、かわきにくい。' : 'ケースの見た目がかわった。'}`); decoSel = null; renderObs(); return; }
     decoSel = decoSel === k ? null : k; renderObs(); });
@@ -2129,7 +2168,7 @@ async function renderObs(){
     if(d && rigCtl && LOOK[key]){ d.mi = d.mi || {}; if(!d.mi[key]){ d.mi[key] = 1; first = true; save(); } }
     setTxt(key === 'plain' ? '虫めがねで見ると…からだのもようや、こまかい毛まで、よく見える！' : key === 'buried' ? '虫めがねで見ると…土の中に、虫のからだが少しだけ見える。ねているみたい。' : LOOK[key] + (first ? '（はじめて見た！）' : ''));
   };
-  const showTool = ()=>{ if(tool === 'furu' || (tool === 'big' && st.k === 'pupa') || (tool === 'esa' && st.k === 'pupa') || (tool === 'kazari' && (!decoSel || ITEMS[decoSel].cat === 'mat'))){ toolObj.hidden = true; return; } const r = restPos(); toolObj.innerHTML = toolIc() + '<span class="hint">つかんで動かす</span>'; toolObj.hidden = false; setObj(r.x, r.y, 'rest'); };
+  const showTool = ()=>{ if(tool === 'yubi' || tool === 'furu' || (tool === 'big' && st.k === 'pupa') || (tool === 'esa' && st.k === 'pupa') || (tool === 'kazari' && (!decoSel || ITEMS[decoSel].cat === 'mat'))){ toolObj.hidden = true; return; } const r = restPos(); toolObj.innerHTML = toolIc() + '<span class="hint">つかんで動かす</span>'; toolObj.hidden = false; setObj(r.x, r.y, 'rest'); };
   const hk = ()=> (parseFloat(getComputedStyle(toolObj).fontSize) || 84) / 84;
   const hotXY = ()=>{ const r = sceneEl.getBoundingClientRect(), h0 = HOT[tool], h = {x:h0.x*hk(), y:h0.y*hk()}; return toXYc(r.left + objPos.x + h.x, r.top + objPos.y + h.y); };
   showTool();
@@ -2171,9 +2210,17 @@ async function renderObs(){
     obsSession.touches++; const pk = c.pers && st.k === 'adult' ? c.pers : 'futsu';
     if(rigCtl && rigCtl.mood !== 'eat') rigCtl.start('threat');
     if(artCtl && artCtl.mood !== 'eat') artCtl.start('threat');
-    setTxt(REACT.touch[pk]);
+    setTxt((obsSession.touches === 1 ? 'そっとね。さわるのは、ちょっとだけ。\n' : '') + REACT.touch[pk]);
     if(obsSession.touches >= 3){ c.log.over++; c.hideUntil = now() + 10*60*1000; save(); await say('さわりすぎ！ 虫がつかれてしまう。\n【そだてのやくそく】\n虫は、見るのが基本。さわるのは、ちょっとだけ。'); renderObs(); return; }
     if(pk === 'okubyo'){ c.hideUntil = now() + 10*60*1000; save(); renderObs(); }
+  };
+  let itemDown = null, lastTouch = 0;
+  // 道具を持っていないとき：虫をタップすると、そっとさわる。かくれ家をタップすると、のぞく
+  const tapAt = async (x, y)=>{
+    if(nearBug(x, y)){ if(Date.now() - lastTouch < 600) return; lastTouch = Date.now(); await touchBug(); return; }   // すぐに続けたタップは、1回にかぞえる
+    const H = hideSpot(c, b);
+    if(Math.hypot(x - H.x, y - H.y) < 18){ await peek(); return; }
+    setTxt(sc.txt);
   };
   const peek = async ()=>{
     const leaf = svg.querySelector('.deco .leaf') || svg.querySelector('.leaf'); if(leaf){ leaf.classList.remove('flip'); void leaf.getBoundingClientRect(); leaf.classList.add('flip'); }
@@ -2303,11 +2350,11 @@ async function renderObs(){
   let fromTray = null, trayDragT = 0;
   const inScene = e=>{ const r = sceneEl.getBoundingClientRect(), x = e.clientX - r.left, y = e.clientY - r.top; return x >= 0 && y >= 0 && x <= r.width && y <= r.height; };
   view.querySelectorAll('#toolTray [data-tool]').forEach(bt=> bt.onpointerdown = e=>{
-    const k = bt.dataset.tool; if(!['yubi','megane','fukin','kiri','esa'].includes(k) || bt.disabled || obsSession.big) return;
+    const k = bt.dataset.tool, was = tool; if(!['megane','fukin','kiri','esa'].includes(k) || bt.disabled || obsSession.big) return;
     e.preventDefault();
     if(tool !== k){ tool = k; view.querySelectorAll('#toolTray [data-tool]').forEach(b=> b.classList.toggle('on', b.dataset.tool === k)); sceneEl.className = `scene tool-${k}`; showTool(); lensSaid = ''; updateMini(); }
     setTxt(guides[k] || '');
-    fromTray = {in:false}; down = true; sceneEl.setPointerCapture(e.pointerId); grab = {dx:0, dy:0};
+    fromTray = {in:false, again:was === k}; down = true; sceneEl.setPointerCapture(e.pointerId); grab = {dx:0, dy:0};
     toolObj.querySelector('.hint')?.remove(); dragTo(e); lastMove = Date.now();
     if(tool === 'kiri') stillT = setInterval(()=>{ if(fromTray && !fromTray.in) return; if(Date.now() - lastMove > 280) sprayStart(); }, 60);
   });
@@ -2315,15 +2362,16 @@ async function renderObs(){
   sceneEl.onpointerdown = e=>{ e.preventDefault();
     if(tool === 'big' && st.k === 'pupa'){ ripple(e); setTxt('さなぎの間は、大そうじはできない。'); return; }
     const hit = tool !== 'fukin' && tool !== 'furu' && tool !== 'big' && !nearObj(e) && itemAt(e);
-    if(hit){ down = true; dragItem = hit; sceneEl.setPointerCapture(e.pointerId); ripple(e); if(hit.type === 'deco') binZone.hidden = false; return; }
+    if(hit){ down = true; dragItem = hit; itemDown = {x:e.clientX, y:e.clientY, moved:false, ix:hit.it.x, iy:hit.it.y}; sceneEl.setPointerCapture(e.pointerId); ripple(e); if(hit.type === 'deco') binZone.hidden = false; return; }
     if(tool === 'furu'){ down = true; sceneEl.setPointerCapture(e.pointerId); ripple(e); furu.x0 = furu.last = e.clientX; furu.n = 0; furu.seg = 0; furu.dir = 0; return; }
+    if(tool === 'yubi'){ ripple(e); const q = toXY(e); tapAt(q.x, q.y); return; }
     if(!nearObj(e)){ ripple(e); setTxt(`${TOOLS[tool].name}をつかんで、動かしてね。`); return; }
     down = true; sceneEl.setPointerCapture(e.pointerId); const r = sceneEl.getBoundingClientRect(); grab = {dx:e.clientX - r.left - objPos.x, dy:e.clientY - r.top - objPos.y};
     toolObj.querySelector('.hint')?.remove(); dragTo(e); lastMove = Date.now();
     if(tool === 'kiri'){ stillT = setInterval(()=>{ if(Date.now() - lastMove > 280) sprayStart(); }, 60); } };
   sceneEl.onpointermove = e=>{ if(!down) return;
     if(fromTray) fromTray.in = inScene(e);
-    if(dragItem){ moveItem(e); return; }
+    if(dragItem){ if(!itemDown.moved && Math.hypot(e.clientX - itemDown.x, e.clientY - itemDown.y) < 8) return; itemDown.moved = true; moveItem(e); return; }
     if(tool === 'furu'){ furuMove(e); return; }
     const r = sceneEl.getBoundingClientRect(), nx = e.clientX - r.left - grab.dx, ny = e.clientY - r.top - grab.dy;
     if(Math.hypot(nx - objPos.x, ny - objPos.y) > 2.5){ lastMove = Date.now(); if(tool === 'kiri') sprayStop(); }
@@ -2331,9 +2379,10 @@ async function renderObs(){
     if(tool === 'fukin'){ const q = hotXY(); wipeAt(q.x, q.y); }
     if(tool === 'big') bigTick(e); };
   sceneEl.onpointerup = sceneEl.onpointercancel = async e=>{ if(!down) return; down = false; clearInterval(stillT); stillT = null;
-    if(fromTray){ fromTray = null; trayDragT = Date.now(); if(!inScene(e)){ sprayStop(); const rp = restPos(); setObj(rp.x, rp.y, 'rest'); return; } }
+    if(fromTray){ const again = fromTray.again; fromTray = null; trayDragT = Date.now(); if(!inScene(e)){ sprayStop(); if(again){ tool = 'yubi'; renderObs(); return; } const rp = restPos(); setObj(rp.x, rp.y, 'rest'); return; } }
     if(tool === 'big'){ await bigRelease(); const rp = restPos(); setObj(rp.x, rp.y, ''); showTool(); return; }
-    if(dragItem){ const di = dragItem, binned = di.type === 'deco' && inBin(e); dragItem = null; binZone.hidden = true; binZone.classList.remove('over');
+    if(dragItem){ const di = dragItem, binned = di.type === 'deco' && inBin(e), tapped = !itemDown.moved; dragItem = null; binZone.hidden = true; binZone.classList.remove('over');
+      if(tapped){ if(tool === 'yubi'){ const q = toXY(e); await tapAt(q.x, q.y); } return; }   // 動かさなければ、タップとおなじ
       if(binned){ c.deco = c.deco.filter(d=>d !== di.it); S.items[di.it.k] = (S.items[di.it.k]||0) + 1; save(); setTxt(`${ITEMS[di.it.k].name}をしまった。`); renderObs(); return; }
       c.log.over += di.type === 'food' ? 0 : 0; save(); renderObs(); setTimeout(()=> setTxt(di.type === 'food' ? 'エサの場所をかえた。' : `${ITEMS[di.it.k].name}の場所をかえた。`), 50); return; }
     if(tool === 'furu'){ await furuEnd(); return; }
@@ -2343,10 +2392,6 @@ async function renderObs(){
     if(tool === 'fukin'){ await wipeDone(); return; }
     if(tool === 'esa'){ await placeFood(q.x, q.y); return; }
     if(tool === 'kazari'){ if(!decoSel) return; const soilTop = soilTopOf(b); c.deco.push({id:Date.now(), k:decoSel, x:clamp(q.x, 8 - (noteUI() ? caseExtra(c) : 0), 92 + (noteUI() ? caseExtra(c) : 0)), y:clamp(q.y, soilTop - 28, soilTop + 2)}); S.items[decoSel]--; if(!(S.items[decoSel] > 0)) decoSel = null; save(); renderObs(); setTimeout(()=> setTxt('かざりを置いた。つまんで動かせるよ。'), 50); await yakusoku('deco', 'かくれ家やとまり木があると、虫は落ちついてくらせる。\n本物の虫かごでも、同じだよ。'); return; }
-    // ゆび：手の先がどこにあるか
-    if(nearBug(q.x, q.y)){ await touchBug(); return; }
-    const H = hideSpot(c, b);
-    if(Math.hypot(q.x - H.x, q.y - H.y) < 18){ await peek(); return; }
     setTxt(sc.txt); };
   const furuMove = e=>{ const dx = e.clientX - furu.x0, v = e.clientX - furu.last; furu.last = e.clientX;
     svg.style.transform = `translateX(${clamp(dx*.35, -16, 16)}px) rotate(${clamp(dx*.04, -2.5, 2.5)}deg)`;
